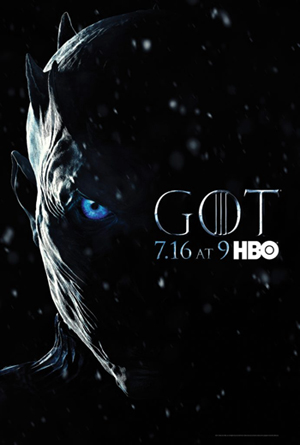
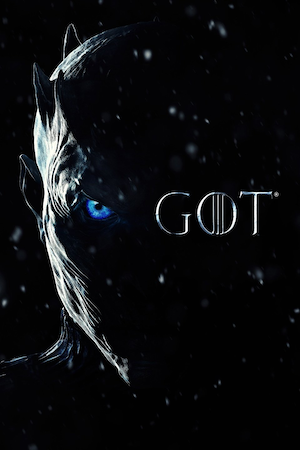
updated intro text and image

diff --git a/client/pages/intro/intro.jsx b/client/pages/intro/intro.jsx
@@ -50,9 +50,9 @@ class Intro extends React.Component {
                             <div className={"item " + (this.state.currentPage == 0 && "active") || ""}>
                                 <div className="onboarding-inner">
                                     <h3 className="onboarding-header">HOW TO PLAY</h3>
-                                    <h3 className="onboarding-step">1. Enter your predictions for Season 7</h3>
+                                    <h3 className="onboarding-step">1. Enter your predictions for Season 8</h3>
                                     <p>
-                                        Think Tyrion will die this season? Think Sansa is pregnant? Write those as predictions.
+                                        Think Bran is the Night King? Think Tormund and Brienne will finally get together? Write those as predictions.
                                     </p>
                                 </div>
                             </div>
@@ -73,7 +73,7 @@ class Intro extends React.Component {
                                     <h3 className="onboarding-header">HOW TO PLAY</h3>
                                     <h3 className="onboarding-step">3. Watch Game of Thrones!</h3>
                                     <p>
-                                        The admin approves or rejects all wagers, based on predefined <a href="/account/criteria">criteria</a>. If your predictions are right, the coins you wagered will be deposited into your Iron Bank Account. The player with the biggest bank at the end of the season wins! Players in the winning house also win!
+                                        The admin approves or rejects all wagers, based on predefined <a href="/account/criteria">criteria</a>. If your predictions are right, the coins you wagered will be deposited into your Iron Bank Account. The player with the biggest bank at the end of the season wins! Players in the winning house also win the team game!
                                     </p>
                                 </div>
 
